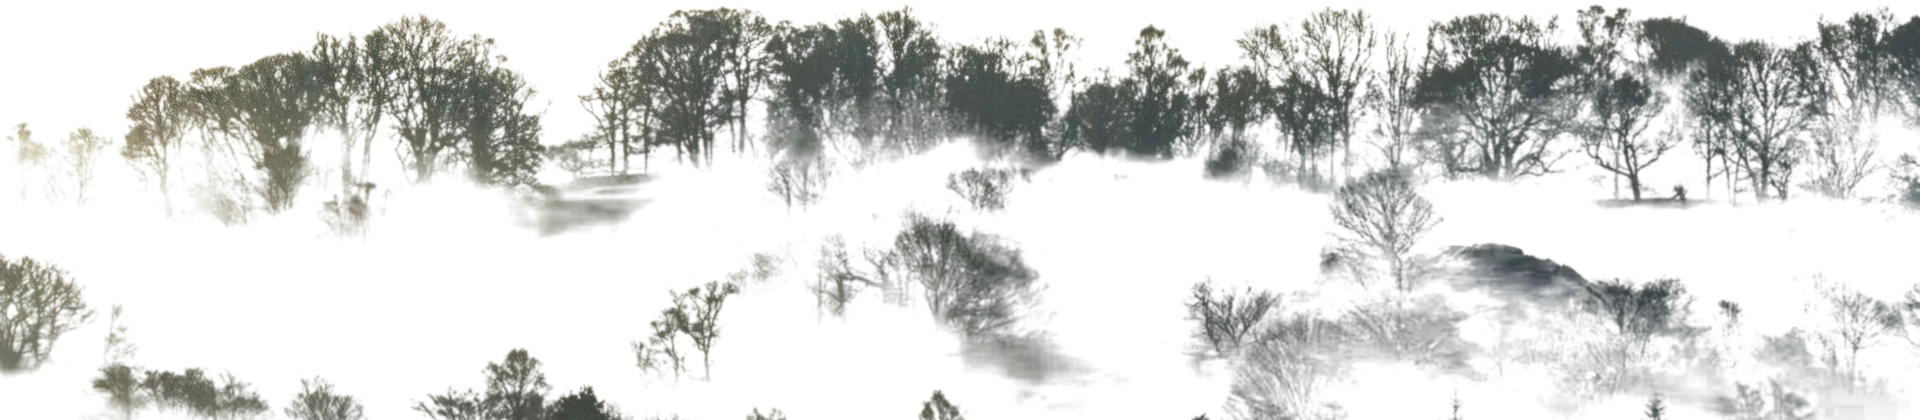
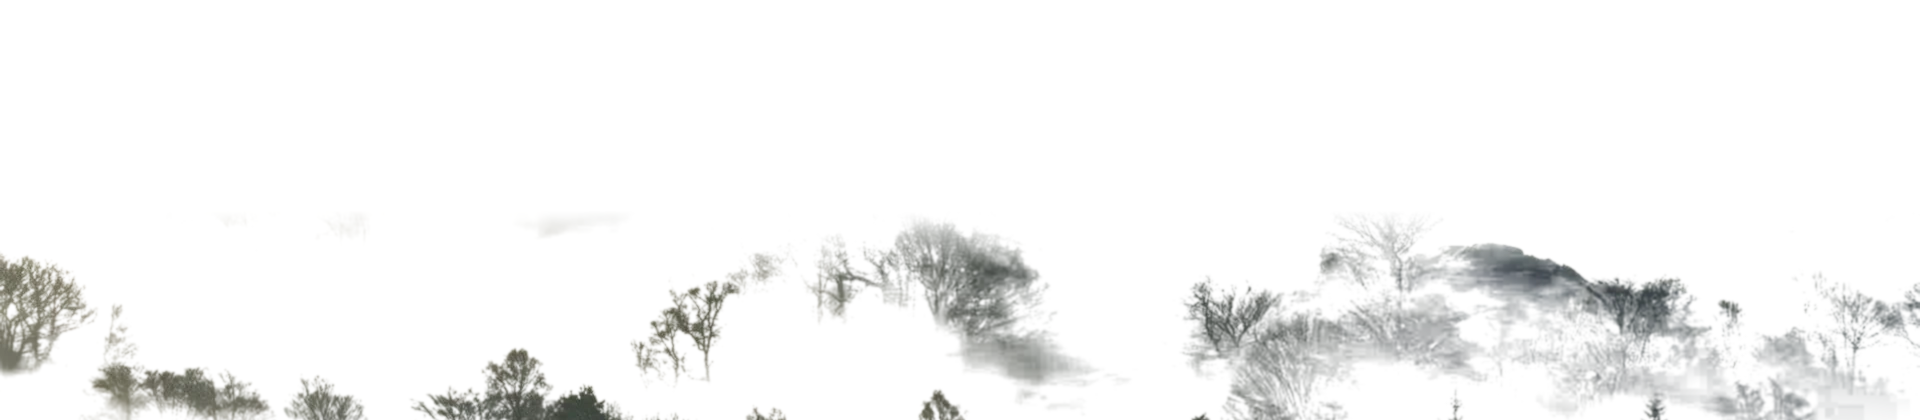
v1.31.2: photo scene clocks higher and easier to read; starry lake and misty forest cut-outs only cover the bottom of the digits
Claude-Session: https://claude.ai/code/session_01R4wukJQqgLhcwCNBdbDiZB

Changed region(s): [[0.0, 0.0, 1.0, 0.65], [0.4688, 0.4952, 0.5312, 0.619]]

diff --git a/lib/scenes.dart b/lib/scenes.dart
@@ -23,11 +23,13 @@ class PhotoScene {
 }
 
 const Map<String, PhotoScene> kPhotoScenes = {
-  'meadow': PhotoScene('Misty meadow', 330, frontTop: 310),
-  'matterhorn': PhotoScene('Matterhorn', 200),
-  'volcano': PhotoScene('Volcano at dusk', 420, frontTop: 400),
-  'starlake': PhotoScene('Starry lake', 170, frontTop: 150),
-  'mistforest': PhotoScene('Misty forest', 150, frontTop: 130),
+  // clocks sit high enough to read at a glance; the scenery only tucks under the bottom of the
+  // digits (the starry lake's and misty forest's cut-outs fade out above that line)
+  'meadow': PhotoScene('Misty meadow', 305, frontTop: 310),
+  'matterhorn': PhotoScene('Matterhorn', 150),
+  'volcano': PhotoScene('Volcano at dusk', 280, frontTop: 400),
+  'starlake': PhotoScene('Starry lake', 120, frontTop: 150),
+  'mistforest': PhotoScene('Misty forest', 120, frontTop: 130),
 };
 
 /// The scenes that take turns: the photos.
@@ -473,7 +475,7 @@ class _PhotoClockState extends State<_PhotoClock> {
       Positioned(
         left: 0,
         right: 0,
-        top: top - 110,
+        top: top - 95,
         child: Text(date,
             textAlign: TextAlign.center,
             style: const TextStyle(

diff --git a/CHANGELOG.md b/CHANGELOG.md
@@ -3,6 +3,10 @@
 Newest first. Each update on the TV (Settings → Backup and updates → Updates) and each
 GitHub release shows the part of this list it brings.
 
+## 1.31.2
+**Changed**
+- The big clock on the photo scenes sits higher, so the time is easier to read at a glance. The mountains, the volcano and the trees still tuck under the bottom of the digits.
+
 ## 1.31.1
 **Added**
 - **Automatic updates:** new versions install by themselves when the TV has sat on the home screen for 10 minutes, or in the middle of the night, never while you're using it. On to start; Settings → Backup and updates → Updates turns it off. Foyer for PC too. (Fire TV always asks first, so it still waits there.)
